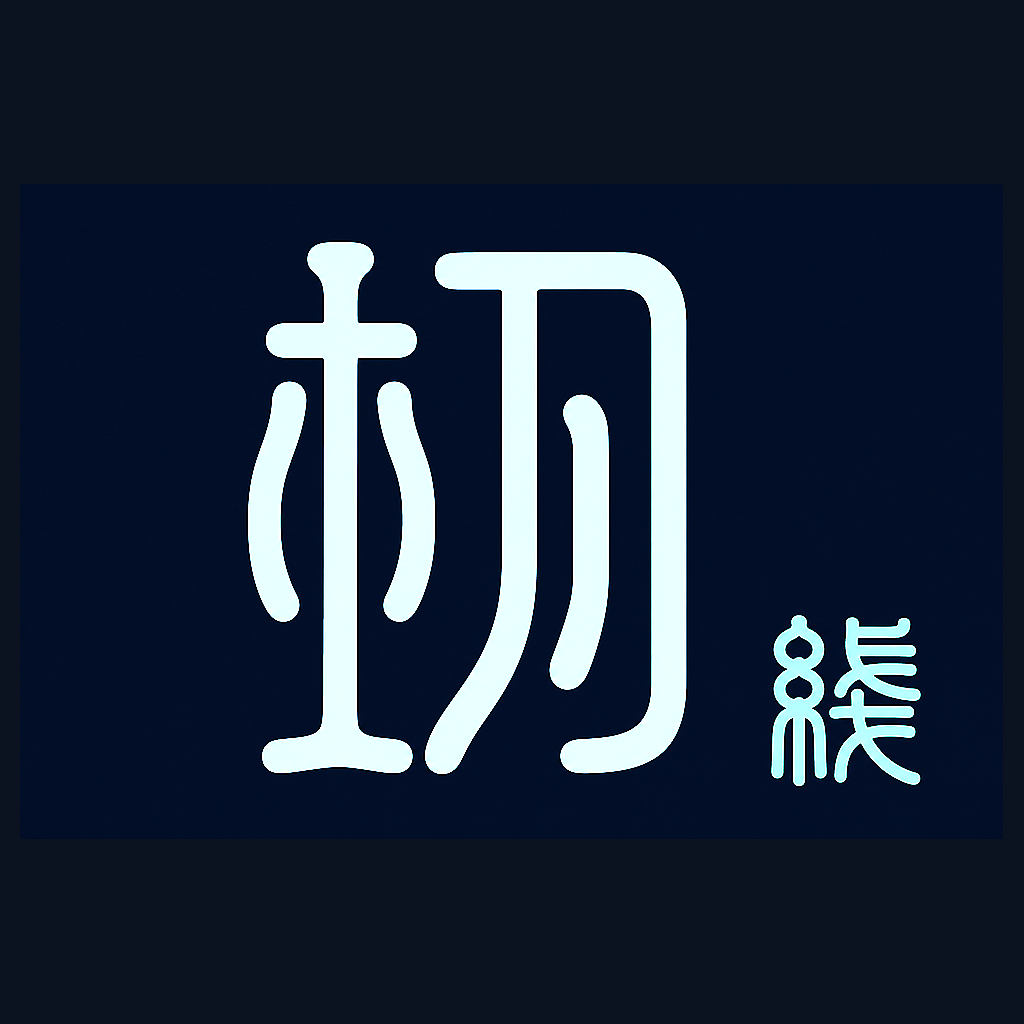
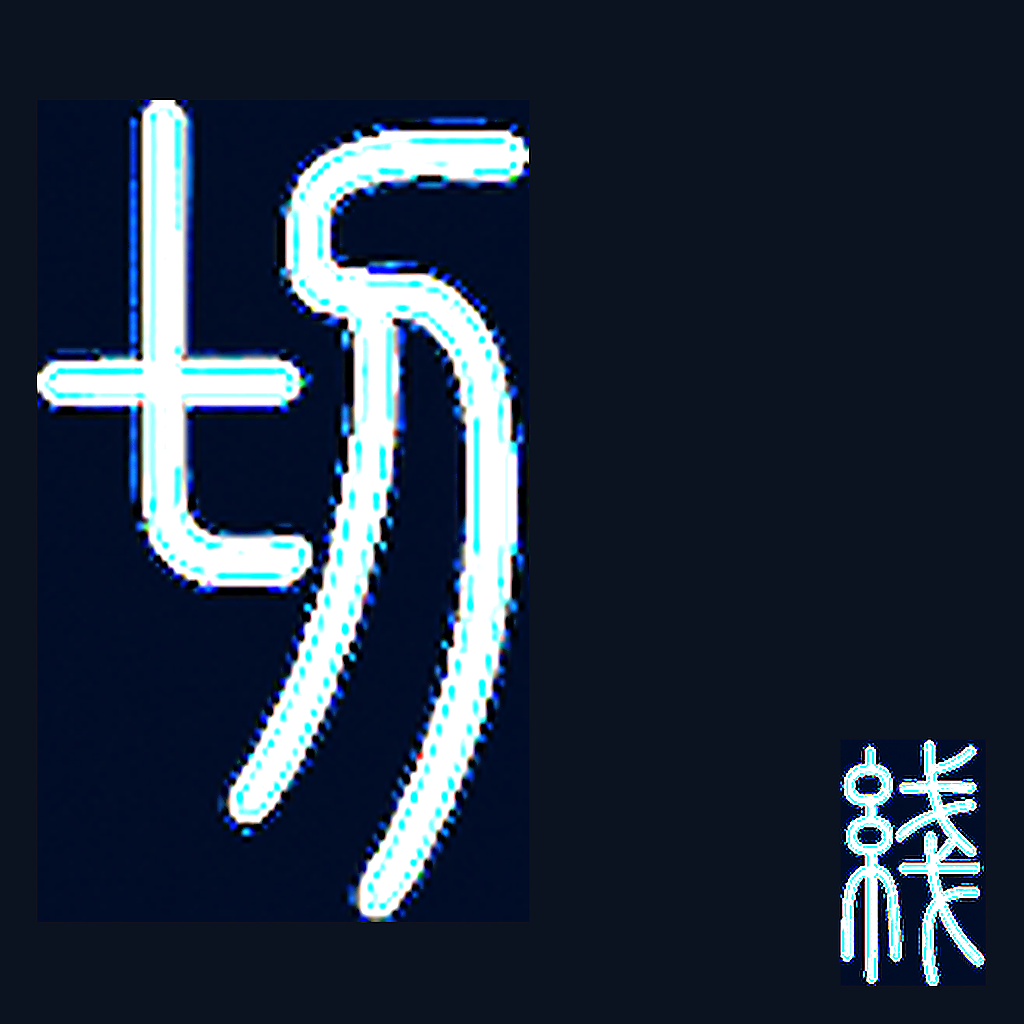
fix: 图标保留参考篆书写法，仅程序排版放大「切」
新增 compose_icon_from_reference_layout.py：从横向参考图按低谷切分两字，像素缩放后左大右下小；提交 reference_qiexian_seal.png 为字形唯一来源

Changed region(s): [[0.0312, 0.0938, 0.6875, 0.9062], [0.75, 0.5938, 0.9688, 0.9688]]

diff --git a/scripts/compose_icon_from_reference_layout.py b/scripts/compose_icon_from_reference_layout.py
@@ -1,0 +1,162 @@
+"""从「切线」横向参考图裁出两字，仅做缩放与排版，不改篆书写法。
+
+上一版用扩散模型重绘会改变笔画结构；本脚本只使用用户提供的 PNG 像素，
+将左字放大、右字缩小置于右下角，再铺实色底，便于与 enhance_app_icon 衔接。
+"""
+from __future__ import annotations
+
+import argparse
+from pathlib import Path
+
+from PIL import Image, ImageFilter
+
+
+def _luma(r: int, g: int, b: int) -> float:
+    return 0.299 * r + 0.587 * g + 0.114 * b
+
+
+def _corner_mean_luma(im: Image.Image) -> float:
+    px = im.load()
+    w, h = im.size
+    pts = [(2, 2), (w - 3, 2), (2, h - 3), (w - 3, h - 3)]
+    return sum(_luma(*px[x, y][:3]) for x, y in pts) / len(pts)
+
+
+def _is_fg(p: tuple[int, int, int, int], bg_dark: bool, margin: float) -> bool:
+    r, g, b, a = p
+    if a < 40:
+        return False
+    lum = _luma(r, g, b)
+    return lum > margin if bg_dark else lum < (255 - margin)
+
+
+def _bbox_foreground(im: Image.Image, bg_dark: bool, margin: float) -> tuple[int, int, int, int] | None:
+    px = im.load()
+    w, h = im.size
+    min_x, min_y, max_x, max_y = w, h, 0, 0
+    found = False
+    for y in range(h):
+        for x in range(w):
+            if _is_fg(px[x, y], bg_dark, margin):
+                found = True
+                min_x = min(min_x, x)
+                min_y = min(min_y, y)
+                max_x = max(max_x, x)
+                max_y = max(max_y, y)
+    if not found:
+        return None
+    return min_x, min_y, max_x + 1, max_y + 1
+
+
+def _column_fg_counts(im: Image.Image, bg_dark: bool, margin: float) -> list[int]:
+    g = im.convert("RGBA")
+    px = g.load()
+    w, h = g.size
+    counts = []
+    for x in range(w):
+        c = 0
+        for y in range(h):
+            if _is_fg(px[x, y], bg_dark, margin):
+                c += 1
+        counts.append(c)
+    return counts
+
+
+def _split_x(im: Image.Image, bg_dark: bool, margin: float) -> int:
+    """在横向投影低谷处分两字，避免硬切笔画。"""
+    w, _ = im.size
+    cols = _column_fg_counts(im, bg_dark, margin)
+    lo, hi = int(w * 0.22), int(w * 0.78)
+    if hi <= lo + 4:
+        return w // 2
+    best = min(range(lo, hi), key=lambda x: cols[x])
+    return int(best)
+
+
+def _resize_h(im: Image.Image, target_h: int) -> Image.Image:
+    if target_h <= 0 or im.height <= 0:
+        return im
+    ratio = target_h / im.height
+    nw = max(1, int(im.width * ratio))
+    nh = max(1, int(im.height * ratio))
+    big = im.resize((nw * 2, nh * 2), Image.Resampling.LANCZOS)
+    return big.resize((nw, nh), Image.Resampling.LANCZOS)
+
+
+def compose(
+    ref: Path,
+    out: Path,
+    *,
+    canvas: int,
+    bg: tuple[int, int, int],
+    left_h_ratio: float,
+    right_h_ratio: float,
+    margin: int,
+    fg_margin: float,
+) -> Image.Image:
+    im = Image.open(ref).convert("RGBA")
+    bg_dark = _corner_mean_luma(im) < 90
+    bx = _bbox_foreground(im, bg_dark, fg_margin)
+    if not bx:
+        raise SystemExit("参考图中未检测到前景笔画")
+    im = im.crop(bx)
+    split = _split_x(im, bg_dark, fg_margin)
+    w = im.width
+    left = im.crop((0, 0, split, im.height))
+    right = im.crop((split, 0, w, im.height))
+    lb = _bbox_foreground(left, bg_dark, fg_margin)
+    rb = _bbox_foreground(right, bg_dark, fg_margin)
+    if not lb or not rb:
+        raise SystemExit("左右字裁切失败")
+    left = left.crop(lb)
+    right = right.crop(rb)
+
+    target_left_h = int(canvas * left_h_ratio)
+    target_right_h = int(target_left_h * right_h_ratio)
+    left_r = _resize_h(left, target_left_h).filter(ImageFilter.UnsharpMask(radius=0.9, percent=120, threshold=2))
+    right_r = _resize_h(right, target_right_h).filter(ImageFilter.UnsharpMask(radius=0.8, percent=110, threshold=2))
+
+    canvas_img = Image.new("RGBA", (canvas, canvas), (*bg, 255))
+    lx = margin
+    ly = (canvas - left_r.height) // 2
+    canvas_img.paste(left_r, (lx, ly), left_r)
+
+    rx = canvas - margin - right_r.width
+    ry = canvas - margin - right_r.height
+    canvas_img.paste(right_r, (rx, ry), right_r)
+
+    return canvas_img
+
+
+def main() -> None:
+    root = Path(__file__).resolve().parents[1]
+    p = argparse.ArgumentParser(description="Compose asymmetric icon from reference 切线 PNG without redrawing glyphs.")
+    p.add_argument("--ref", type=Path, default=root / "assets" / "reference_qiexian_seal.png")
+    p.add_argument("--out", type=Path, default=root / "assets" / "app_icon.png")
+    p.add_argument("--canvas", type=int, default=1024)
+    p.add_argument("--margin", type=int, default=28)
+    p.add_argument("--left-h-ratio", type=float, default=0.82, help="左字高度占画布比例")
+    p.add_argument("--right-h-ratio", type=float, default=0.30, help="右字相对左字高度比例")
+    p.add_argument("--bg-r", type=int, default=11)
+    p.add_argument("--bg-g", type=int, default=18)
+    p.add_argument("--bg-b", type=int, default=32)
+    p.add_argument("--fg-margin", type=float, default=88.0, help="前景/背景分界亮度阈值")
+    args = p.parse_args()
+    bg = (args.bg_r, args.bg_g, args.bg_b)
+    img = compose(
+        args.ref,
+        args.out,
+        canvas=args.canvas,
+        bg=bg,
+        left_h_ratio=args.left_h_ratio,
+        right_h_ratio=args.right_h_ratio,
+        margin=args.margin,
+        fg_margin=args.fg_margin,
+    )
+    args.out.parent.mkdir(parents=True, exist_ok=True)
+    img.save(args.out, format="PNG", optimize=True)
+    print(f"Wrote {args.out}")
+
+
+if __name__ == "__main__":
+    main()